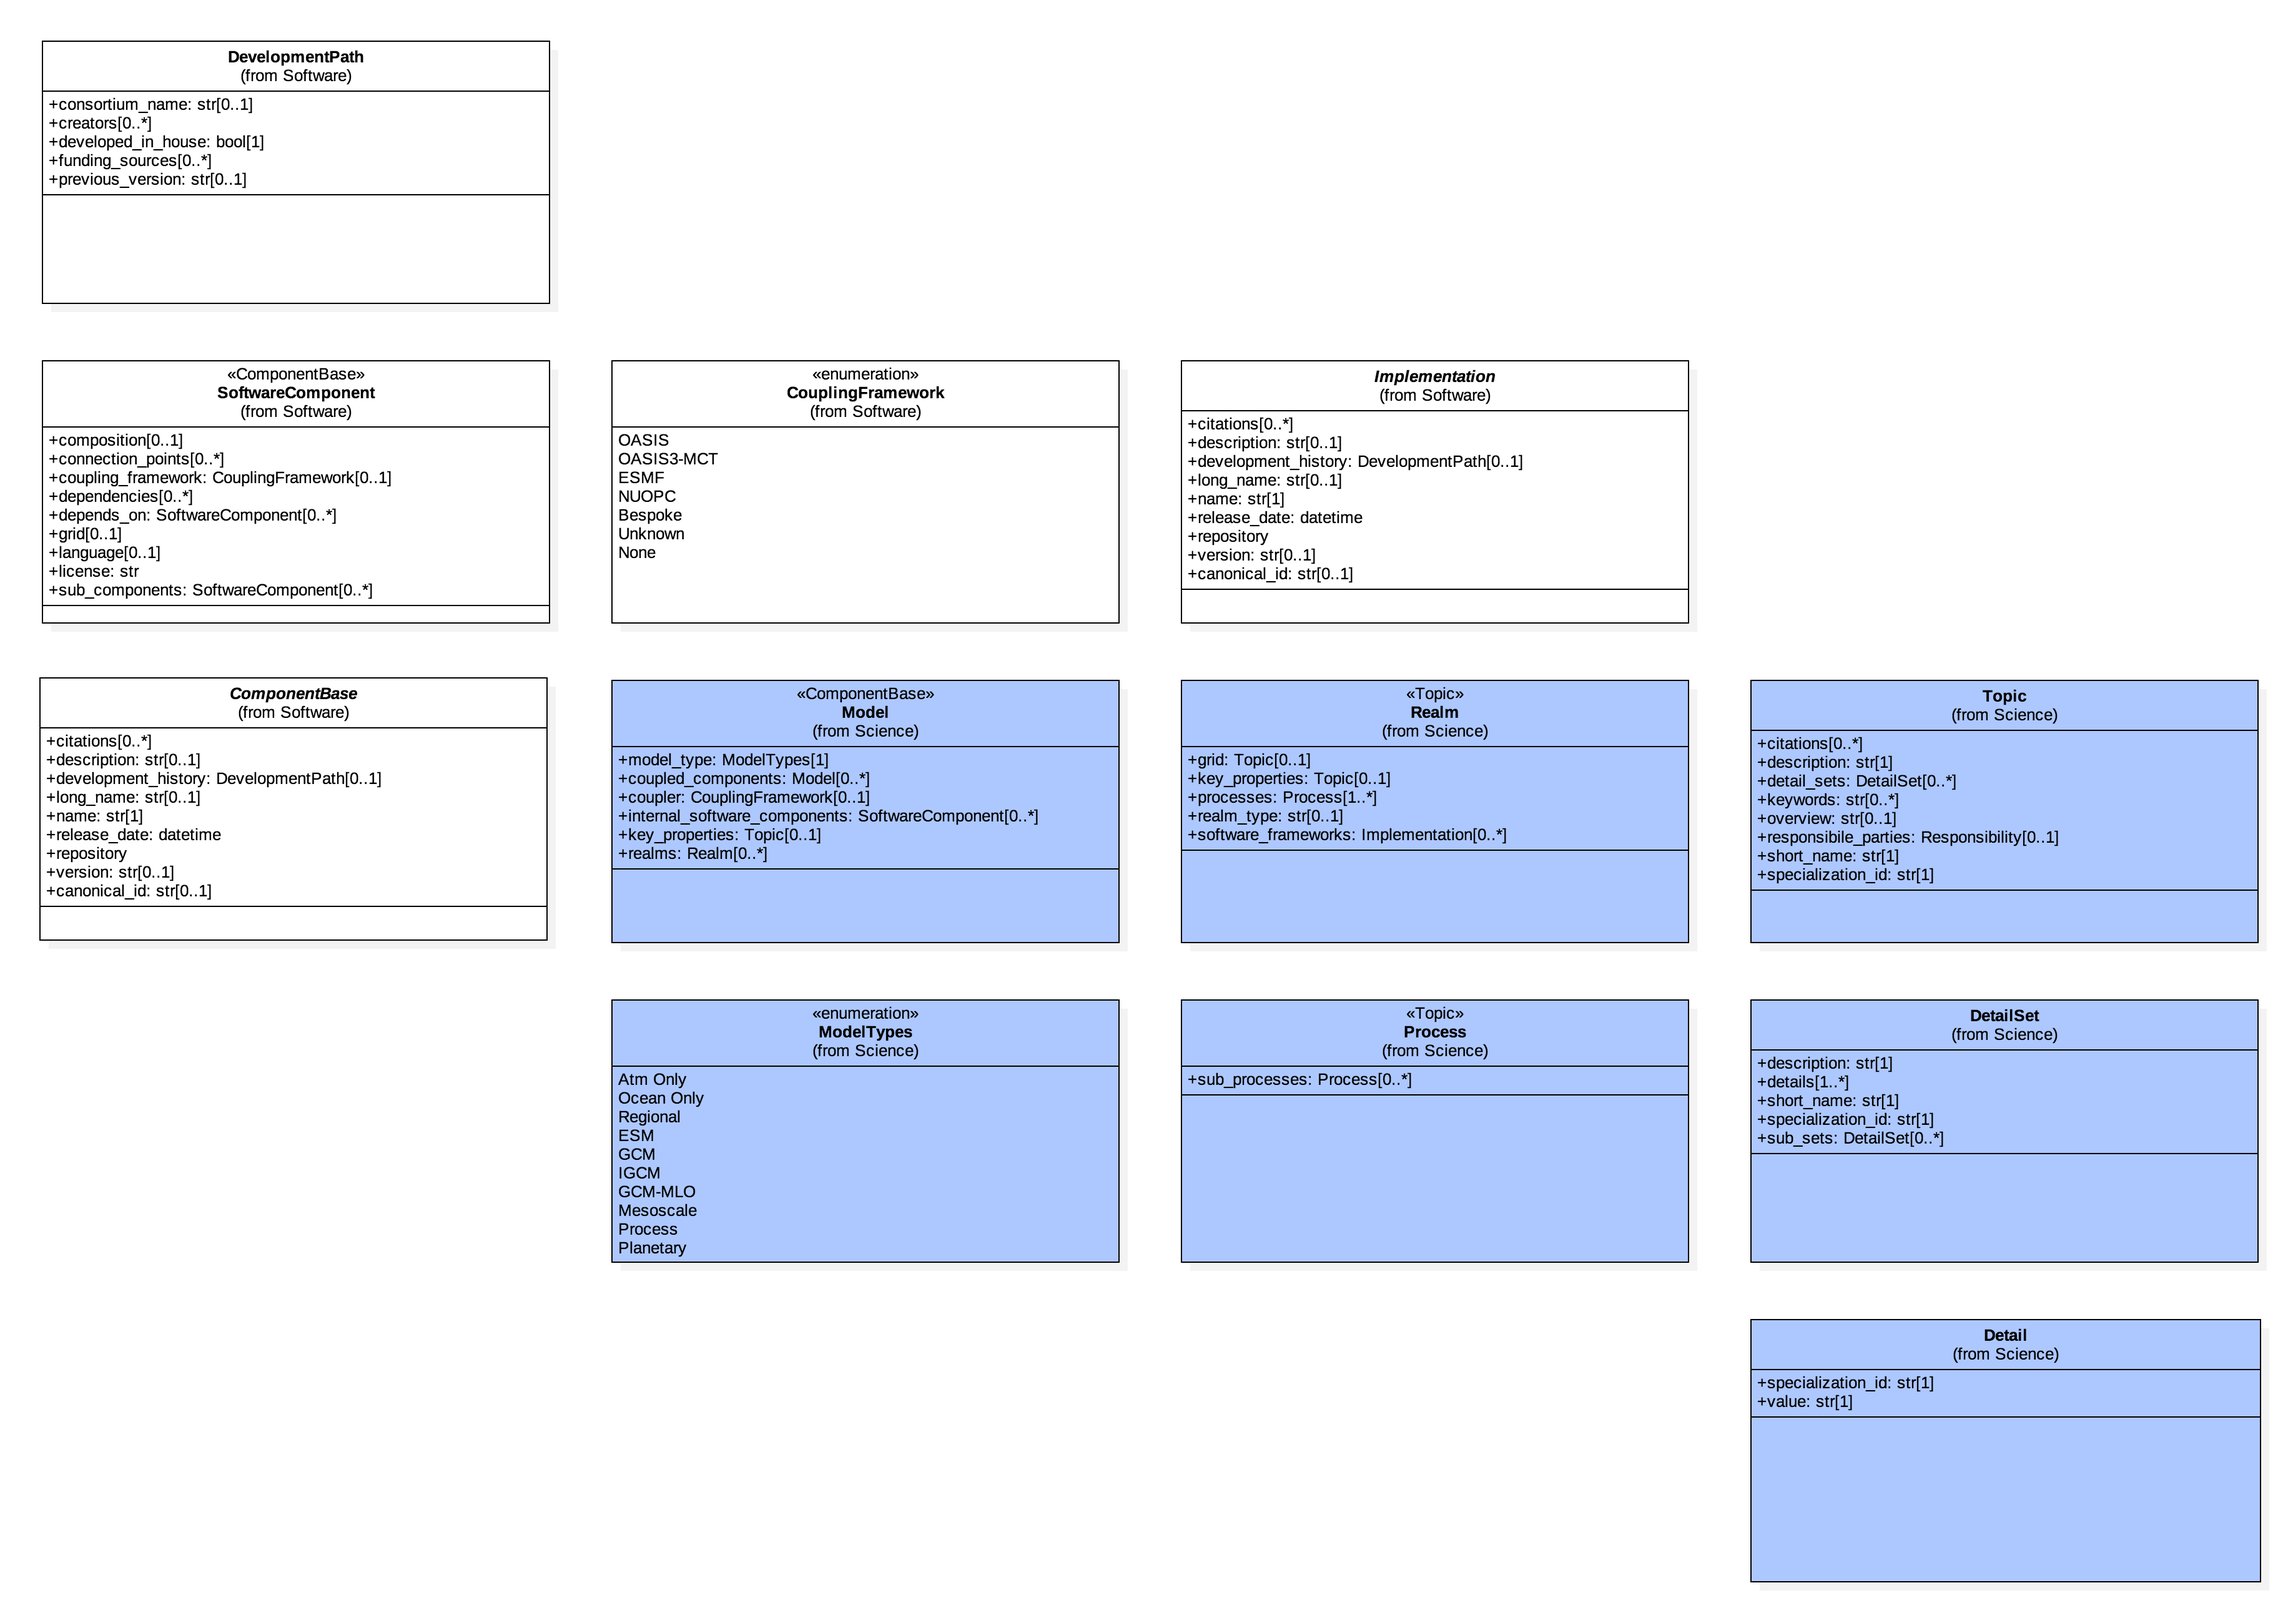
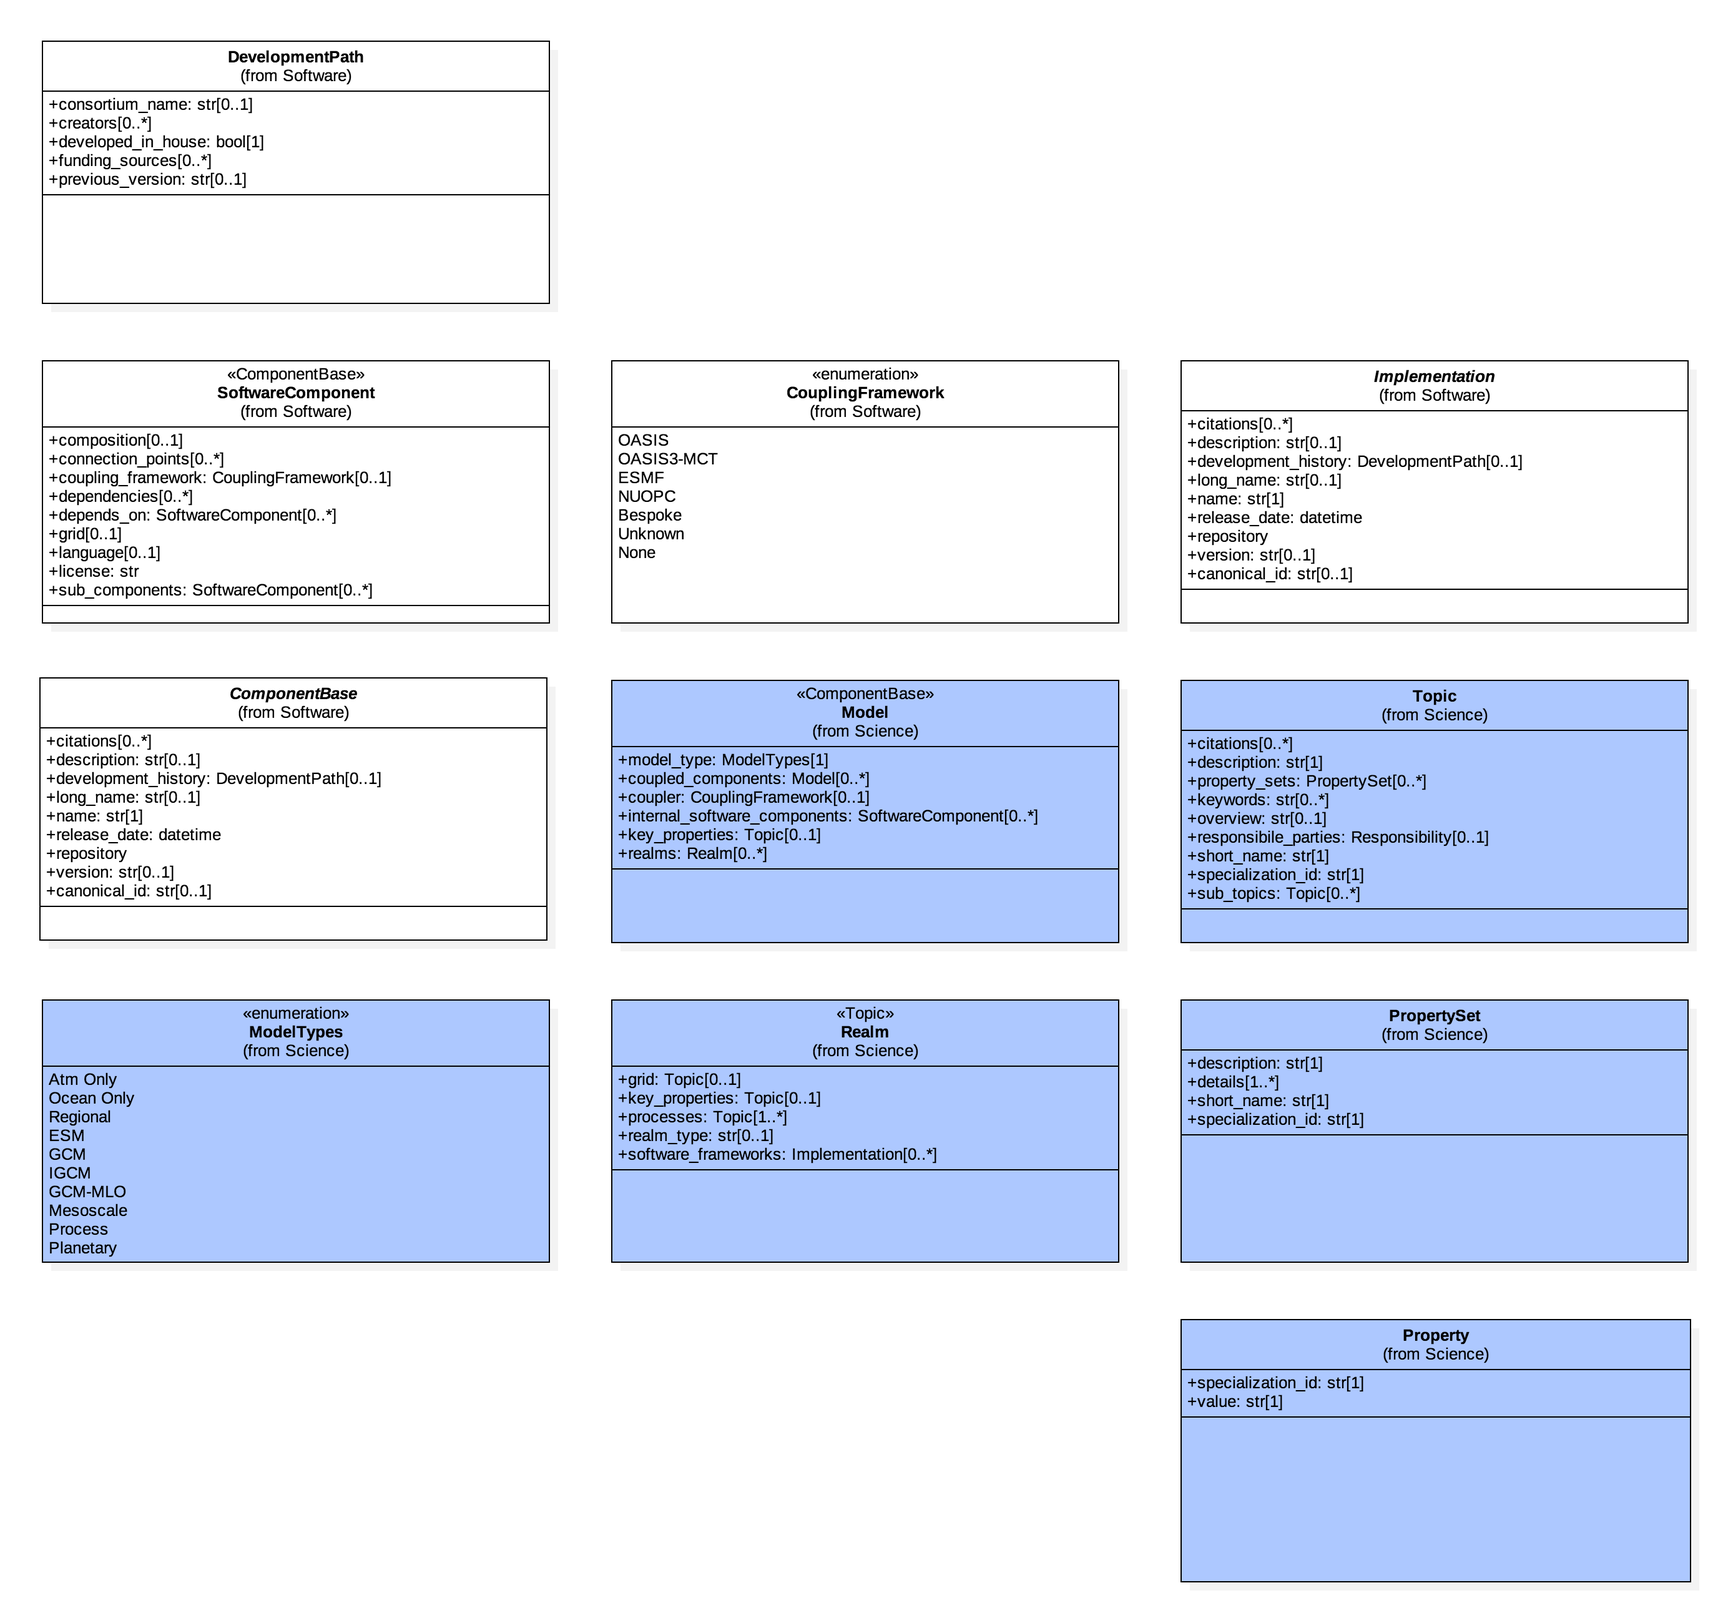
Updates as per Mark E discussions

diff --git a/v2/schema-science-proposal/new-science_classes.py b/v2/schema-science-proposal/new-science_classes.py
@@ -50,7 +50,7 @@ def realm():
                 "The grid used to layout the variables (e.g. the Global ENDGAME-grid)."),
             ('key_properties', 'science.topic', '0.1',
                 "Realm key properties which differ from model defaults (grid, timestep etc)."),
-            ('processes', 'science.process', '1.N',
+            ('processes', 'science.topic', '1.N',
                 "Processes simulated within the realm."),
             ('realm_type', 'str', '0.1',
                 "Canonical name for the realm."),
@@ -58,25 +58,6 @@ def realm():
                 "Software framework(s) of the realm."),
         ]
     }
-
-
-def process():
-    """Provides structure for description of a process simulated within a
-    particular area (or domain/realm/component) of a model. This will
-    often be subclassed within a specific implementation so that
-    constraints can be used to ensure that the process details
-    requested are consistent with project requirements for
-    information.
-    """
-    return {
-        'type': 'class',
-        'base': 'science.topic',
-        'is_abstract': False,
-        'properties': [
-            ('sub_processes', 'science.topic', '0.N',
-                "Discrete portion of a process with common process details.")
-        ]
-}
 
 
 def topic():
@@ -92,7 +73,7 @@ def topic():
                 "Set of pertinent citations."),
             ('description', 'str', '0.1',
                 "A description (possibly derived from specialization)."),
-            ('detail_sets', 'science.detail_set', '1.N',
+            ('property_sets', 'science.property_set', '1.N',
                 "Set of associated specialized detail attributes."),
             ('keywords', 'str', '0.N',
                 "Keywords to help re-use and discovery of this information."),
@@ -104,17 +85,15 @@ def topic():
                 "A short-name / key (possibly derived from specialization)."),
             ('specialization_id', 'str', '0.1',
                 "Specialization identifier (derived from specialization)."),
+            ('sub_topics', 'science.topic', '0.N',
+                "Discrete portion of a topic with common details.")
         ]
     }
 
 
-def detail_set():
-    """Provides specific details related to a process, sub-process,
-    key properties, etc.  There are two possible specialisations
-    expected: (1) A detail_vocabulary is identified, and a cardinality
-    is assigned to that for possible responses, or (2) Detail is used
-    to provide a collection for a set of properties which are defined
-    in the sub-class.
+def property_set():
+    """Provides specific details related to a topic (i.e. process, sub-process,
+    grid, key properties, etc).
 
     """
     return {
@@ -124,19 +103,17 @@ def detail_set():
         'properties': [
             ('description', 'str', '0.1',
                 "A description (possibly derived from specialization)."),
-            ('details', 'science.detail', '1.N',
-                "Set of associated specialized detail attributes."),
+            ('properties', 'science.property', '1.N',
+                "Set of associated specialized properties."),
             ('short_name', 'str', '0.1',
                 "A short-name / key (possibly derived from specialization)."),
             ('specialization_id', 'str', '0.1',
                 "Specialization identifier (derived from specialization)."),
-            ('subsets', 'science.detail_set', '0.N',
-                "Associated sub-sets organized into a hierarchy."),
         ]
     }
 
 
-def detail():
+def property():
     """A specialized question asked of the scientic community.
 
     """
